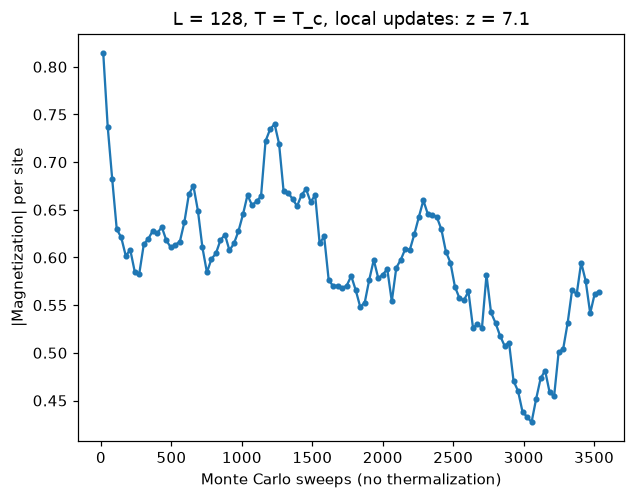
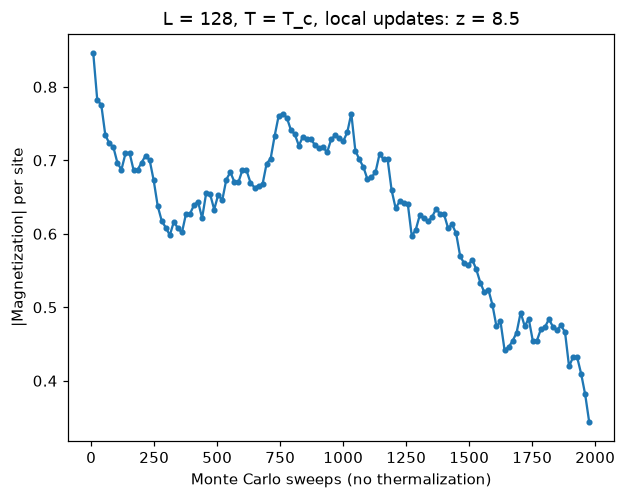
Use ALPS master results on the MC-01c page
Rerun the tutorial scripts against a master build, where runs take
exactly SWEEPS measurements and checkSteadyState uses z0 = 1 at the
default level, and update the printed outputs, figures and text.

diff --git a/content/zh-cn/tutorials/mcs/mc01c.md b/content/zh-cn/tutorials/mcs/mc01c.md
@@ -290,17 +290,17 @@ for d in pyalps.checkSteadyState(data):
 在我们的运行中，输出如下：
 
 ```
-drift run: 111 bins, z = 7.09, cutoff z0 = 1.00, passes: False
-pyalps.checkSteadyState: z = 7.09, z0 = 0.41, passes: False
+drift run: 124 bins, z = 8.45, cutoff z0 = 1.00, passes: False
+pyalps.checkSteadyState: z = 8.45, z0 = 1.00, passes: False
 ```
 
-手工计算的 $z$ 与库函数的结果一致。
-库函数输出 $z_0 = 0.41$，是因为这次运行用的是 pyalps 3.0.0；使用 ALPS 的 master 分支时它输出 $z_0 = 1.00$，无论哪种情况这次模拟都通不过。
+手工计算的 $z$ 和 $z_0$ 与库函数的结果一致。
+使用 pyalps 3.0.0 时，库函数会输出 $z_0 = 0.41$（见末尾的说明），这次模拟同样通不过。
 
 ![](/figs/mc01c_spinmc_drift.png)
 
 `spinmc` 从所有自旋朝上的状态出发，磁化强度先在几百次扫描内从 1 弛豫到约 0.6。
-此后它一直在约 0.45 到 0.75 之间缓慢游荡：在 $T_c$ 处，$128 \times 128$ 晶格上局域更新的自关联时间远长于这次模拟。
+此后它一直在约 0.35 到 0.75 之间缓慢游荡：在 $T_c$ 处，$128 \times 128$ 晶格上局域更新的自关联时间远长于这次模拟。
 检验不通过是正确的：在这次模拟的时间尺度上，磁化强度并不处于稳态，无论把这种缓慢游荡称为初始弛豫的尾声还是临界慢化。
 
 ### 多次已平衡的模拟
@@ -332,14 +332,14 @@ for update in ['local', 'cluster']:
 ```
 
 ```
-local   updates: 100 runs, fraction passing at c = 0.6827: 0.43 (expected 0.68)
-cluster updates: 100 runs, fraction passing at c = 0.6827: 0.64 (expected 0.68)
+local   updates: 100 runs, fraction passing at c = 0.6827: 0.41 (expected 0.68)
+cluster updates: 100 runs, fraction passing at c = 0.6827: 0.72 (expected 0.68)
 ```
 
 | 更新方式 | 模拟次数 | $c = 0.6827$ 时的通过比例 | 分箱独立时的预期值 |
 |---|---|---|---|
-| 局域 | 100 | 0.43 | 0.68 |
-| 团簇 | 100 | 0.64 | 0.68 |
+| 局域 | 100 | 0.41 | 0.68 |
+| 团簇 | 100 | 0.72 | 0.68 |
 
 模拟 100 次时，这些比例的统计不确定度约为 $\pm 0.05$。
 团簇更新的模拟以名义通过率通过，它们的 $z$ 值服从标准正态变量 $Z$ 的 $|Z|$ 的分布。
@@ -382,18 +382,18 @@ z_rest = np.array([steady_state_z(ts[1:])[2] for ts in series])
 在我们的运行中，输出如下：
 
 ```
-runs without thermalization: z = 1.0 2.2 1.8 1.9 0.9 1.7 1.9 1.2 2.1 1.8
-the same runs without the first bin: z = 1.3 1.8 0.7 0.8 1.5 0.3 0.9 0.7 1.4 0.6
-fraction passing at c = 0.6827 (z0 = 1.00): 0.1 with the first bin, 0.6 without
-fraction passing at c = 0.95 (z0 = 1.96): 0.8 with the first bin, 1.0 without
+runs without thermalization: z = 1.6 2.1 1.8 2.5 1.2 2.1 1.8 1.8 2.1 1.4
+the same runs without the first bin: z = 0.3 1.4 0.3 3.1 1.6 1.8 0.4 0.4 1.5 0.6
+fraction passing at c = 0.6827 (z0 = 1.00): 0.0 with the first bin, 0.5 without
+fraction passing at c = 0.95 (z0 = 1.96): 0.6 with the first bin, 0.9 without
 ```
 
 ![](/figs/mc01c_sse_transient.png)
 
-能量在包含 64 次扫描的第一个分箱内就弛豫下来，这期间算符序列从空的初始状态增长起来。
-第一个分箱比平衡能量高出约 75，约为后面各分箱涨落的十五倍，然而图中这次模拟的 $z = 1.0$，通过了默认的检验。
+能量在包含 16 次扫描的第一个分箱内就弛豫下来，这期间算符序列从空的初始状态增长起来。
+第一个分箱比平衡能量高出约 300，约为后面各分箱涨落的四十倍，然而图中这次模拟的 $z$ 只有 1.6：它以很小的差距没有通过默认的检验，而在 $c = 0.95$ 时通过。
 开头单独一个偏离的点只会产生显著性不高的斜率，而且它还会增大斜率所除的标准差 $s$。
-在 $c = 0.6827$ 时，这些模拟大多通不过，但只差一点；在 $c = 0.95$ 时，十次中有八次通过。
+在 $c = 0.6827$ 时，十次模拟全都通不过，其中大多数只差一点；在 $c = 0.95$ 时，十次中有六次通过。
 这个检验是为发现整个序列上的线性趋势而设计的；局限在前几个分箱中的暂态，最好通过查看时间序列来发现，或者干脆热化几百次扫描来避免。
 
 ### 多次已平衡的模拟
@@ -406,7 +406,7 @@ fraction passing at c = 0.95 (z0 = 1.96): 0.8 with the first bin, 1.0 without
 
 ![](/figs/mc01c_sse_z.png)
 
-这里每个分箱平均了 128 次扫描，远长于 SSE 能量的自关联时间，因此各分箱几乎独立，检验以名义通过率通过，与团簇更新的伊辛模拟相同。
+这里每个分箱平均了 32 次扫描，已经长于 SSE 能量的自关联时间，因此各分箱几乎独立，检验以名义通过率通过，与团簇更新的伊辛模拟相同。
 
 ## pyalps 3.0.0
 
@@ -426,7 +426,7 @@ for name in dir(np):
         setattr(scipy, name, getattr(np, name))
 ```
 
-本页的结果是用 pyalps 3.0.0 得到的，在这个版本中，一次模拟会一直测量到调度器的下一次检查，因而测量次数可能多于 `SWEEPS`（见 [MC-01b](../mc01b) 中的 `Tmin`）；在 ALPS 的 master 分支中，一次模拟恰好进行 `SWEEPS` 次测量。
+本页的结果是用 ALPS 的 master 分支得到的，在这个分支中，一次模拟恰好进行 `SWEEPS` 次测量。使用 pyalps 3.0.0 时，一次模拟会一直测量到调度器的下一次检查（见 [MC-01b](../mc01b) 中的 `Tmin`），因而测量次数可能更多。
 这改变的是分箱的数目，而不是检验的行为。
 {{< /callout >}}
 

diff --git a/content/en/tutorials/mcs/mc01c.md b/content/en/tutorials/mcs/mc01c.md
@@ -290,17 +290,17 @@ for d in pyalps.checkSteadyState(data):
 In our run this printed:
 
 ```
-drift run: 111 bins, z = 7.09, cutoff z0 = 1.00, passes: False
-pyalps.checkSteadyState: z = 7.09, z0 = 0.41, passes: False
+drift run: 124 bins, z = 8.45, cutoff z0 = 1.00, passes: False
+pyalps.checkSteadyState: z = 8.45, z0 = 1.00, passes: False
 ```
 
-The hand-computed $z$ agrees with the library's.
-The library printed $z_0 = 0.41$ because this run used pyalps 3.0.0; with the ALPS master branch it prints $z_0 = 1.00$, and the run fails either way.
+The hand-computed $z$ and $z_0$ agree with the library's.
+With pyalps 3.0.0 the library prints $z_0 = 0.41$ instead (see the note at the end), and the run fails as well.
 
 ![](/figs/mc01c_spinmc_drift.png)
 
 `spinmc` starts with all spins up, and the magnetization first relaxes from 1 to about 0.6 within a few hundred sweeps.
-After that it keeps wandering slowly between about 0.45 and 0.75: at $T_c$ the autocorrelation time of local updates on a $128 \times 128$ lattice is far longer than this run.
+After that it keeps wandering slowly between about 0.35 and 0.75: at $T_c$ the autocorrelation time of local updates on a $128 \times 128$ lattice is far longer than this run.
 The test is right to fail: on the time scale of this run, the magnetization is not in a steady state, whether one calls the slow wandering the end of the initial relaxation or critical slowing down.
 
 ### Many equilibrated runs
@@ -332,14 +332,14 @@ for update in ['local', 'cluster']:
 ```
 
 ```
-local   updates: 100 runs, fraction passing at c = 0.6827: 0.43 (expected 0.68)
-cluster updates: 100 runs, fraction passing at c = 0.6827: 0.64 (expected 0.68)
+local   updates: 100 runs, fraction passing at c = 0.6827: 0.41 (expected 0.68)
+cluster updates: 100 runs, fraction passing at c = 0.6827: 0.72 (expected 0.68)
 ```
 
 | Update | Runs | Fraction passing at $c = 0.6827$ | Expected for independent bins |
 |---|---|---|---|
-| local | 100 | 0.43 | 0.68 |
-| cluster | 100 | 0.64 | 0.68 |
+| local | 100 | 0.41 | 0.68 |
+| cluster | 100 | 0.72 | 0.68 |
 
 With 100 runs the fractions carry a statistical uncertainty of about $\pm 0.05$.
 The cluster-update runs pass at the nominal rate, and their values of $z$ follow the distribution of $|Z|$ for a standard normal $Z$.
@@ -382,18 +382,18 @@ z_rest = np.array([steady_state_z(ts[1:])[2] for ts in series])
 In our run this printed:
 
 ```
-runs without thermalization: z = 1.0 2.2 1.8 1.9 0.9 1.7 1.9 1.2 2.1 1.8
-the same runs without the first bin: z = 1.3 1.8 0.7 0.8 1.5 0.3 0.9 0.7 1.4 0.6
-fraction passing at c = 0.6827 (z0 = 1.00): 0.1 with the first bin, 0.6 without
-fraction passing at c = 0.95 (z0 = 1.96): 0.8 with the first bin, 1.0 without
+runs without thermalization: z = 1.6 2.1 1.8 2.5 1.2 2.1 1.8 1.8 2.1 1.4
+the same runs without the first bin: z = 0.3 1.4 0.3 3.1 1.6 1.8 0.4 0.4 1.5 0.6
+fraction passing at c = 0.6827 (z0 = 1.00): 0.0 with the first bin, 0.5 without
+fraction passing at c = 0.95 (z0 = 1.96): 0.6 with the first bin, 0.9 without
 ```
 
 ![](/figs/mc01c_sse_transient.png)
 
-The energy relaxes within the first bin of 64 sweeps, while the operator string grows from its empty initial state.
-That first bin lies about 75 above the equilibrium energy, some fifteen times the scatter of the later bins, yet the run plotted here has $z = 1.0$ and passes the default test.
+The energy relaxes within the first bin of 16 sweeps, while the operator string grows from its empty initial state.
+That first bin lies about 300 above the equilibrium energy, some forty times the scatter of the later bins, yet the run plotted here has only $z = 1.6$: it fails the default test narrowly and passes at $c = 0.95$.
 A single outlying point at the start produces a slope of only modest significance, and it also raises the standard deviation $s$ that the slope is divided by.
-At $c = 0.6827$ most of these runs fail, but only by a small margin, and at $c = 0.95$ eight of the ten pass.
+At $c = 0.6827$ all ten runs fail, most of them narrowly, and at $c = 0.95$ six of the ten pass.
 The test is built to detect a linear trend over the whole series; a transient confined to the first bins is better found by looking at the time series, or simply avoided by thermalizing for a few hundred sweeps.
 
 ### Many equilibrated runs
@@ -406,7 +406,7 @@ With 1000 sweeps of thermalization, 100 repeated runs give:
 
 ![](/figs/mc01c_sse_z.png)
 
-Here each bin averages 128 sweeps, far longer than the autocorrelation time of the SSE energy, so the bins are nearly independent and the test passes at its nominal rate, as for the cluster-update Ising runs.
+Here each bin averages 32 sweeps, already longer than the autocorrelation time of the SSE energy, so the bins are nearly independent and the test passes at its nominal rate, as for the cluster-update Ising runs.
 
 ## pyalps 3.0.0
 
@@ -426,7 +426,7 @@ for name in dir(np):
         setattr(scipy, name, getattr(np, name))
 ```
 
-The results on this page were produced with pyalps 3.0.0, in which a run can take more than `SWEEPS` measurements until the scheduler's next check (see `Tmin` in [MC-01b](../mc01b)); in the ALPS master branch a run takes exactly `SWEEPS`.
+The results on this page were produced with the ALPS master branch, in which a run takes exactly `SWEEPS` measurements. With pyalps 3.0.0 a run keeps measuring until the scheduler's next check (see `Tmin` in [MC-01b](../mc01b)), so it can take more.
 This changes the number of bins, not the behavior of the test.
 {{< /callout >}}
 
